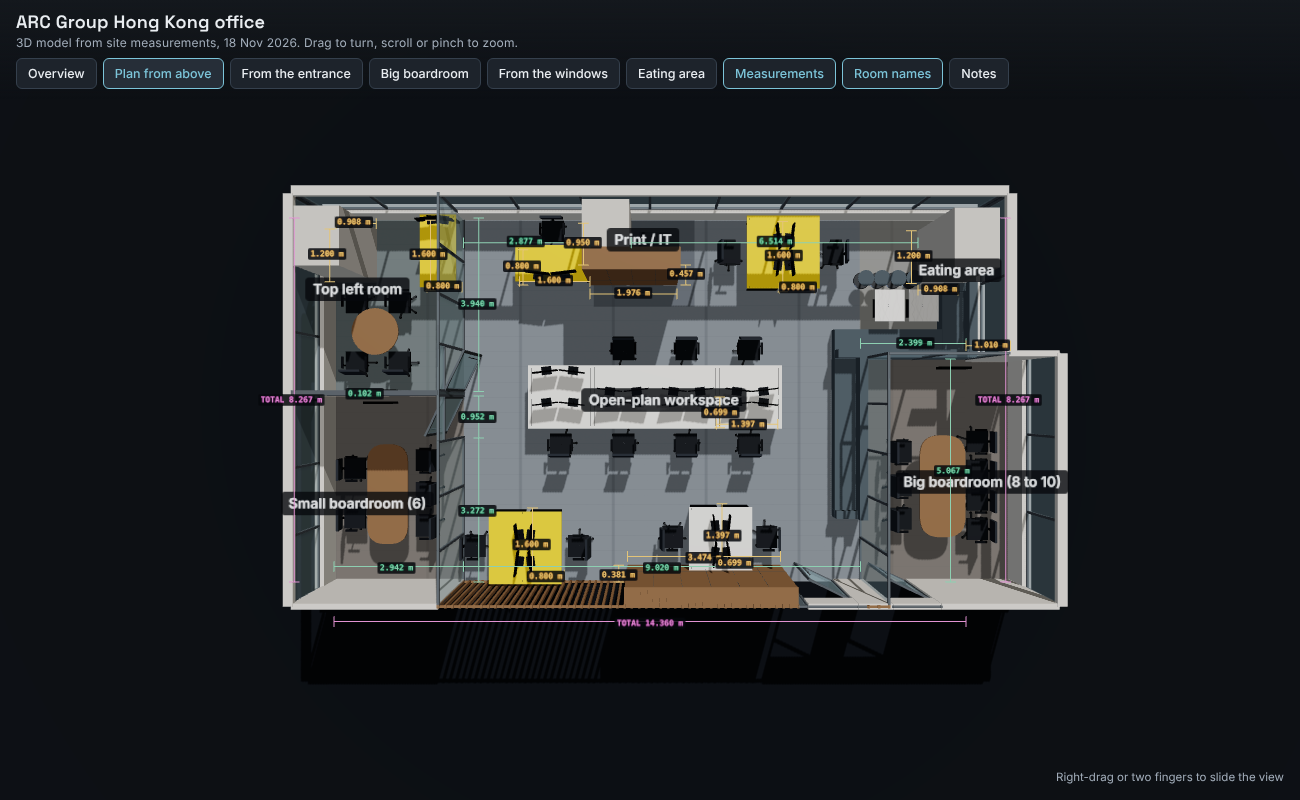
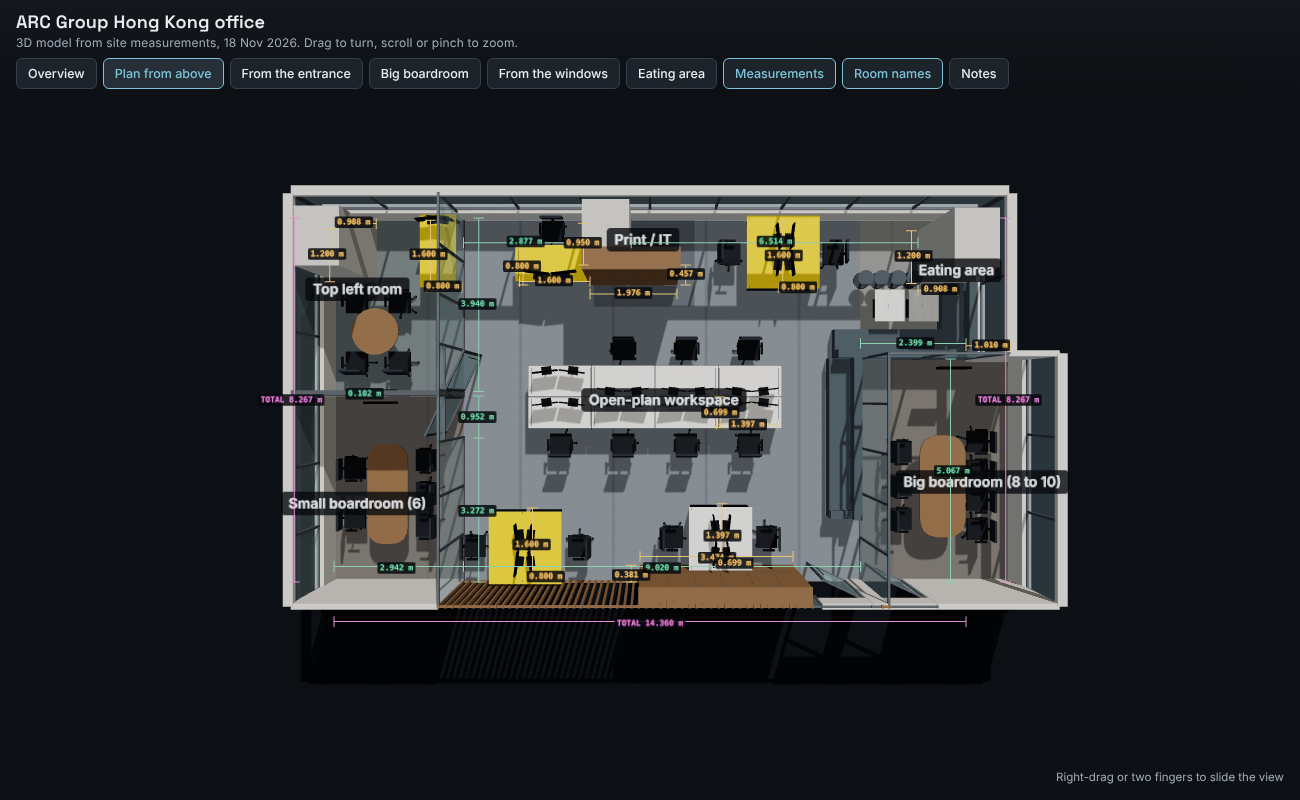
Front run in order: boardroom wall, boardroom door, 5 in glass divider, panes, main door; seams on the 8 middle desks
Claude-Session: https://claude.ai/code/session_01J9k4PRu2SvmMESSvYWztSA

diff --git a/model3d/arc-office-3d.html b/model3d/arc-office-3d.html
@@ -73,7 +73,7 @@ button:focus-visible{outline:2px solid var(--accent);outline-offset:2px}
 import * as THREE from 'three';
 import { OrbitControls } from 'three/addons/controls/OrbitControls.js';
 
-const DATA = {"sidePanes": [{"a": 2.8116, "b": 3.0148}, {"a": 4.013, "b": 4.2162}], "objdims": [{"x1": 4.216, "y1": 0.581, "x2": 7.69, "y2": 0.581, "t": "3.474 m"}, {"x1": 7.89, "y1": 0, "x2": 7.89, "y2": 0.381, "t": "0.381 m"}, {"x1": 6.567, "y1": 6.545, "x2": 8.543, "y2": 6.545, "t": "1.976 m"}, {"x1": 6.367, "y1": 6.745, "x2": 6.367, "y2": 7.203, "t": "0.457 m"}, {"x1": 0.182, "y1": 6.631, "x2": 1.09, "y2": 6.631, "t": "0.908 m"}, {"x1": 1.24, "y1": 6.781, "x2": 1.24, "y2": 7.981, "t": "1.200 m"}, {"x1": 8.693, "y1": 7.203, "x2": 8.693, "y2": 8.153, "t": "0.950 m"}, {"x1": 13.398, "y1": 8.142, "x2": 14.306, "y2": 8.142, "t": "0.908 m"}, {"x1": 14.456, "y1": 6.822, "x2": 14.456, "y2": 8.022, "t": "1.200 m"}, {"x1": -1.01, "y1": 5.367, "x2": 0, "y2": 5.367, "t": "1.010 m"}, {"x1": 4.276, "y1": 3.584, "x2": 5.673, "y2": 3.584, "t": "1.397 m"}, {"x1": 5.593, "y1": 3.504, "x2": 5.593, "y2": 4.202, "t": "0.699 m"}, {"x1": 4.927, "y1": 0.46, "x2": 5.625, "y2": 0.46, "t": "0.699 m"}, {"x1": 5.545, "y1": 0.38, "x2": 5.545, "y2": 1.777, "t": "1.397 m"}, {"x1": 9.126, "y1": 0.158, "x2": 9.926, "y2": 0.158, "t": "0.800 m"}, {"x1": 9.846, "y1": 0.078, "x2": 9.846, "y2": 1.678, "t": "1.600 m"}, {"x1": 3.445, "y1": 6.672, "x2": 4.245, "y2": 6.672, "t": "0.800 m"}, {"x1": 4.165, "y1": 6.592, "x2": 4.165, "y2": 8.192, "t": "1.600 m"}, {"x1": 8.543, "y1": 6.826, "x2": 10.143, "y2": 6.826, "t": "1.600 m"}, {"x1": 10.063, "y1": 6.746, "x2": 10.063, "y2": 7.546, "t": "0.800 m"}, {"x1": 11.449, "y1": 6.697, "x2": 12.249, "y2": 6.697, "t": "0.800 m"}, {"x1": 12.169, "y1": 6.617, "x2": 12.169, "y2": 8.217, "t": "1.600 m"}], "cab2": {"x": 6.5666, "y": 6.7455, "width": 1.9764, "depth": 0.4572}, "bump": {"x": -1.01, "y": 0, "w": 1.01, "d": 5.067}, "sofa": {"depth": 0.65, "a": {"x": 0, "y": 5.067, "len": 1.664}, "b": {"x": 0, "y": 5.067, "len": 3.049}, "c": {"x": 2.399, "y": 1.497, "len": 3.57}}, "width": 14.36, "depth": 8.267, "divider": 0.103, "walls": [{"id": "w6", "type": "wall", "x1": -1.01, "y1": 0, "x2": 1.3538, "y2": 0}, {"id": "g2", "type": "glass", "x1": 2.399, "y1": 0, "x2": 11.419, "y2": 0}, {"id": "w7", "type": "wall", "x1": 11.419, "y1": 0, "x2": 14.36, "y2": 0}, {"id": "n1", "type": "window", "x1": 0, "y1": 8.267, "x2": 14.36, "y2": 8.267}, {"id": "n2", "type": "window", "x1": 0, "y1": 5.067, "x2": 0, "y2": 8.267}, {"id": "n3", "type": "window", "x1": 14.36, "y1": 0, "x2": 14.36, "y2": 8.267}, {"id": "g3", "type": "glass", "x1": 2.399, "y1": 0, "x2": 2.399, "y2": 5.067}, {"id": "g4", "type": "glass", "x1": 0, "y1": 5.067, "x2": 2.399, "y2": 5.067}, {"id": "g5", "type": "glass", "x1": 11.419, "y1": 0, "x2": 11.419, "y2": 3.272}, {"id": "g7", "type": "glass", "x1": 11.419, "y1": 4.327, "x2": 11.419, "y2": 8.267}, {"id": "w9", "type": "wall", "x1": 11.419, "y1": 4.224, "x2": 14.36, "y2": 4.224}, {"id": "n2b", "type": "window", "x1": -1.01, "y1": 0, "x2": -1.01, "y2": 5.067}, {"id": "w6b", "type": "wall", "x1": -1.01, "y1": 5.067, "x2": 0, "y2": 5.067}], "doors": [{"id": "d1", "name": "Big boardroom door", "x1": 1.3538, "y1": 0, "x2": 2.319, "y2": 0, "hinge": {"x": 1.3538, "y": 0}}, {"id": "d2", "name": "Main entrance (card lock)", "x1": 3.0148, "y1": 0, "x2": 4.013, "y2": 0, "hinge": {"x": 3.0148, "y": 0}}, {"id": "d3", "name": "Small boardroom door", "x1": 11.419, "y1": 3.2906, "x2": 11.419, "y2": 4.224, "hinge": {"x": 11.419, "y": 4.224}}, {"id": "d4", "name": "Top left room door (locked)", "x1": 11.419, "y1": 4.327, "x2": 11.419, "y2": 5.2617, "hinge": {"x": 11.419, "y": 4.327}}], "rooms": [{"id": "bigBoard", "name": "Big boardroom (8 to 10)", "x": -1.01, "y": 0, "width": 3.409, "depth": 5.067}, {"id": "eating", "name": "Eating area", "x": 0, "y": 5.067, "width": 2.399, "depth": 3.2}, {"id": "openPlan", "name": "Open-plan workspace", "x": 2.399, "y": 0, "width": 9.02, "depth": 8.267}, {"id": "printIT", "name": "Print / IT", "x": 6.168, "y": 6.259, "width": 2.294, "depth": 2.008}, {"id": "smallBoard", "name": "Small boardroom (6)", "x": 11.419, "y": 0, "width": 2.942, "depth": 4.224}, {"id": "securities", "name": "Top left room", "x": 11.419, "y": 4.327, "width": 2.942, "depth": 3.94}], "pillars": [{"id": "p1", "shape": "rect", "x": 0.182, "y": 6.7808, "width": 0.908, "depth": 1.2002}, {"id": "p2", "shape": "square", "x": 7.593, "y": 7.2027, "width": 0.95, "depth": 0.95}, {"id": "p3", "shape": "rect", "x": 13.398, "y": 6.8218, "width": 0.908, "depth": 1.2002}], "cabinet": {"x": 4.2162, "y": 0, "width": 3.4737, "depth": 0.381}, "furniture": [{"id": "t1", "name": "Boardroom table", "room": "bigBoard", "kind": "rrect", "cx": 0.737, "cy": 2.234, "w": 1.0, "d": 2.243, "scale": [0.793, 0.923]}, {"id": "tv1", "name": "TV screen", "room": "bigBoard", "kind": "tvh", "cx": 0.666, "cy": 4.851, "w": 0.639, "d": 0.0, "scale": [0.793, 0.923]}, {"id": "et1", "name": "Eating table 1", "room": "eating", "kind": "marble", "cx": 1.15, "cy": 6.217, "w": 0.65, "d": 0.7, "scale": [0.793, 1.481]}, {"id": "et2", "name": "Eating table 2", "room": "eating", "kind": "marble", "cx": 1.9, "cy": 6.217, "w": 0.65, "d": 0.7, "scale": [0.793, 1.481]}, {"id": "dS", "name": "Desk, Suzuki", "room": "openPlan", "kind": "rect", "cx": 5.276, "cy": 1.079, "w": 0.6985, "d": 1.397, "scale": [0.892, 1.081]}, {"id": "dT", "name": "Desk, Tony", "room": "openPlan", "kind": "rect", "cx": 5.974, "cy": 1.079, "w": 0.6985, "d": 1.397, "scale": [0.892, 1.081]}, {"id": "dC", "name": "Desk, Char", "room": "openPlan", "kind": "rect", "cx": 9.526, "cy": 0.878, "w": 0.8001, "d": 1.6002, "scale": [0.892, 1.081], "top": "yellow"}, {"id": "dF", "name": "Desk, Felix", "room": "openPlan", "kind": "rect", "cx": 10.326, "cy": 0.878, "w": 0.8001, "d": 1.6002, "scale": [0.892, 1.081], "top": "yellow"}, {"id": "c1", "name": "Desk, spare (cluster)", "room": "openPlan", "kind": "rect", "cx": 4.974, "cy": 3.853, "w": 1.397, "d": 0.6985, "scale": [0.892, 1.081]}, {"id": "c2", "name": "Desk, Ale", "room": "openPlan", "kind": "rect", "cx": 6.371, "cy": 3.853, "w": 1.397, "d": 0.6985, "scale": [0.892, 1.081]}, {"id": "c3", "name": "Desk, Victor", "room": "openPlan", "kind": "rect", "cx": 7.768, "cy": 3.853, "w": 1.397, "d": 0.6985, "scale": [0.892, 1.081]}, {"id": "c4", "name": "Desk, Henry", "room": "openPlan", "kind": "rect", "cx": 9.165, "cy": 3.853, "w": 1.397, "d": 0.6985, "scale": [0.892, 1.081]}, {"id": "c5", "name": "Desk, Jeff", "room": "openPlan", "kind": "rect", "cx": 4.974, "cy": 4.551, "w": 1.397, "d": 0.6985, "scale": [0.892, 1.081]}, {"id": "c6", "name": "Desk, David", "room": "openPlan", "kind": "rect", "cx": 6.371, "cy": 4.551, "w": 1.397, "d": 0.6985, "scale": [0.892, 1.081]}, {"id": "c7", "name": "Desk, spare (cluster)", "room": "openPlan", "kind": "rect", "cx": 7.768, "cy": 4.551, "w": 1.397, "d": 0.6985, "scale": [0.892, 1.081]}, {"id": "c8", "name": "Desk, spare (cluster)", "room": "openPlan", "kind": "rect", "cx": 9.165, "cy": 4.551, "w": 1.397, "d": 0.6985, "scale": [0.892, 1.081]}, {"id": "dTh", "name": "Desk, Thib", "room": "openPlan", "kind": "rect", "cx": 3.845, "cy": 7.392, "w": 0.8001, "d": 1.6002, "scale": [0.892, 1.081], "top": "yellow"}, {"id": "dA", "name": "Desk, Alan", "room": "openPlan", "kind": "rect", "cx": 4.645, "cy": 7.392, "w": 0.8001, "d": 1.6002, "scale": [0.892, 1.081], "top": "yellow"}, {"id": "dG", "name": "Desk, Gordon", "room": "openPlan", "kind": "rect", "cx": 9.343, "cy": 7.146, "w": 1.6002, "d": 0.8001, "scale": [0.892, 1.081], "top": "yellow"}, {"id": "sv", "name": "Printer", "room": "printIT", "kind": "rect", "cx": 7.08, "cy": 7.514, "w": 0.67, "d": 0.562, "scale": [0.93, 1.116]}, {"id": "t2", "name": "Meeting table", "room": "smallBoard", "kind": "rrect", "cx": 12.957, "cy": 2.061, "w": 0.891, "d": 2.196, "scale": [0.934, 0.939]}, {"id": "tv3", "name": "TV screen", "room": "smallBoard", "kind": "tvh", "cx": 12.949, "cy": 4.106, "w": 0.639, "d": 0.0, "scale": [0.934, 0.939]}, {"id": "t3", "name": "Round table", "room": "securities", "kind": "round", "cx": 13.235, "cy": 5.642, "w": 1.028, "d": 1.028, "scale": [0.934, 1.292]}, {"id": "dN", "name": "Desk, Nigel", "room": "securities", "kind": "rect", "cx": 11.849, "cy": 7.417, "w": 0.8001, "d": 1.6002, "scale": [0.934, 1.292], "top": "yellow"}, {"id": "tv4", "name": "TV screen", "room": "securities", "kind": "tvh", "cx": 12.949, "cy": 4.361, "w": 0.639, "d": 0.0, "scale": [0.934, 1.292]}], "chairs": [{"room": "bigBoard", "cx": -0.113, "cy": 1.259}, {"room": "bigBoard", "cx": 1.587, "cy": 1.486}, {"room": "bigBoard", "cx": -0.113, "cy": 1.909}, {"room": "bigBoard", "cx": 1.587, "cy": 2.234}, {"room": "bigBoard", "cx": -0.113, "cy": 2.559}, {"room": "bigBoard", "cx": 1.587, "cy": 2.982}, {"room": "bigBoard", "cx": -0.113, "cy": 3.209}, {"room": "openPlan", "cx": 4.577, "cy": 1.079}, {"room": "openPlan", "cx": 6.673, "cy": 1.079}, {"room": "openPlan", "cx": 8.776, "cy": 0.878}, {"room": "openPlan", "cx": 11.076, "cy": 0.878}, {"room": "openPlan", "cx": 4.974, "cy": 3.154}, {"room": "openPlan", "cx": 6.371, "cy": 3.154}, {"room": "openPlan", "cx": 7.768, "cy": 3.154}, {"room": "openPlan", "cx": 9.165, "cy": 3.154}, {"room": "openPlan", "cx": 4.974, "cy": 5.25}, {"room": "openPlan", "cx": 6.371, "cy": 5.25}, {"room": "openPlan", "cx": 7.768, "cy": 5.25}, {"room": "openPlan", "cx": 9.343, "cy": 7.896}, {"room": "openPlan", "cx": 3.095, "cy": 7.392}, {"room": "openPlan", "cx": 5.395, "cy": 7.392}, {"room": "smallBoard", "cx": 12.162, "cy": 1.329}, {"room": "smallBoard", "cx": 13.753, "cy": 1.512}, {"room": "smallBoard", "cx": 12.162, "cy": 2.061}, {"room": "smallBoard", "cx": 13.753, "cy": 2.61}, {"room": "smallBoard", "cx": 12.162, "cy": 2.793}, {"room": "securities", "cx": 13.712, "cy": 6.302}, {"room": "securities", "cx": 12.758, "cy": 6.301}, {"room": "securities", "cx": 12.758, "cy": 4.982}, {"room": "securities", "cx": 13.711, "cy": 4.982}, {"room": "eating", "cx": 1.29, "cy": 6.847, "stool": true}, {"room": "eating", "cx": 1.65, "cy": 6.847, "stool": true}, {"room": "eating", "cx": 2.01, "cy": 6.847, "stool": true}, {"room": "eating", "cx": 2.37, "cy": 6.847, "stool": true}], "sites": [{"key": "x:P2R:XSM", "x1": 8.542163329449382, "y1": 7.7046833453950825, "x2": 11.418713864976118, "y2": 7.7046833453950825, "v": 2.876550535526736, "raw": "18.5 inches + 2S + 47 inches"}, {"key": "x:P1R:P2L", "x1": 1.0901254378557255, "y1": 7.7046833453950825, "x2": 7.603638470915489, "y2": 7.7046833453950825, "v": 6.513513033059764, "raw": "17 inches + 2/16ths + SSLSSLS(L-S)"}, {"key": "x:XBB:XSM", "x1": 2.3987128644778917, "y1": 2.4231153774765674e-21, "x2": 11.418713864976118, "y2": 2.4231153774765674e-21, "v": 9.020001000498226, "raw": "0 + (4L + 6S) + 51.1cm"}, {"key": "x:XSM:X9", "x1": 11.418713864976118, "y1": 2.4231153774765674e-21, "x2": 14.360351908010173, "y2": 2.4231153774765674e-21, "v": 2.941638043034056, "raw": "116 inches \u2013 (3/16ths)"}, {"key": "y:YF:YBB", "x1": 6.695989857701384e-22, "y1": 2.4231153774765674e-21, "x2": 6.695989857701384e-22, "y2": 5.067303132830023, "v": 5.067303132830023, "raw": "41 inches + 12/16th to the first pane + 4 panes of 39 inches 7/16ths each"}, {"key": "x:X0:XBB", "x1": 6.695989857701384e-22, "y1": 5.067303132830023, "x2": 2.3987128644778917, "y2": 5.067303132830023, "v": 2.3987128644778917, "raw": "94 inches 7/16ths"}, {"key": "y:YF:YD1", "x1": 11.418713864976118, "y1": 2.4231153774765674e-21, "x2": 11.418713864976118, "y2": 3.271835413790918, "v": 3.271835413790918, "raw": "21+2/16ths + 2S + L + 1 foot"}, {"key": "y:YSB2:Y9", "x1": 11.418713864976118, "y1": 4.326728484890568, "x2": 11.418713864976118, "y2": 8.26690081563199, "v": 3.940172330741423, "raw": "17 inches + 3/16ths + 4S + 1L \u2013 5.5 inches"}, {"key": "y:YSB:YSB2", "x1": 14.711994738728134, "y1": 4.2243348064520285, "x2": 14.711994738728134, "y2": 4.326728484890568, "v": 0.1023936784385387, "raw": "4 inches 1/32ths"}, {"key": "y:YD1:YSB", "x1": 11.418713864976118, "y1": 3.271835413790918, "x2": 11.418713864976118, "y2": 4.2243348064520285, "v": 0.9524993926611109, "raw": "37.5 inches"}]};
+const DATA = {"sidePanes": [{"a": 2.526, "b": 2.7292}, {"a": 3.7274, "b": 3.9306}], "objdims": [{"x1": 3.931, "y1": 0.581, "x2": 7.404, "y2": 0.581, "t": "3.474 m"}, {"x1": 7.604, "y1": 0, "x2": 7.604, "y2": 0.381, "t": "0.381 m"}, {"x1": 6.567, "y1": 6.545, "x2": 8.543, "y2": 6.545, "t": "1.976 m"}, {"x1": 6.367, "y1": 6.745, "x2": 6.367, "y2": 7.203, "t": "0.457 m"}, {"x1": 0.182, "y1": 6.631, "x2": 1.09, "y2": 6.631, "t": "0.908 m"}, {"x1": 1.24, "y1": 6.781, "x2": 1.24, "y2": 7.981, "t": "1.200 m"}, {"x1": 8.693, "y1": 7.203, "x2": 8.693, "y2": 8.153, "t": "0.950 m"}, {"x1": 13.398, "y1": 8.142, "x2": 14.306, "y2": 8.142, "t": "0.908 m"}, {"x1": 14.456, "y1": 6.822, "x2": 14.456, "y2": 8.022, "t": "1.200 m"}, {"x1": -1.01, "y1": 5.367, "x2": 0, "y2": 5.367, "t": "1.010 m"}, {"x1": 4.276, "y1": 3.584, "x2": 5.673, "y2": 3.584, "t": "1.397 m"}, {"x1": 5.593, "y1": 3.504, "x2": 5.593, "y2": 4.202, "t": "0.699 m"}, {"x1": 4.927, "y1": 0.46, "x2": 5.625, "y2": 0.46, "t": "0.699 m"}, {"x1": 5.545, "y1": 0.38, "x2": 5.545, "y2": 1.777, "t": "1.397 m"}, {"x1": 9.126, "y1": 0.158, "x2": 9.926, "y2": 0.158, "t": "0.800 m"}, {"x1": 9.846, "y1": 0.078, "x2": 9.846, "y2": 1.678, "t": "1.600 m"}, {"x1": 3.445, "y1": 6.672, "x2": 4.245, "y2": 6.672, "t": "0.800 m"}, {"x1": 4.165, "y1": 6.592, "x2": 4.165, "y2": 8.192, "t": "1.600 m"}, {"x1": 8.543, "y1": 6.826, "x2": 10.143, "y2": 6.826, "t": "1.600 m"}, {"x1": 10.063, "y1": 6.746, "x2": 10.063, "y2": 7.546, "t": "0.800 m"}, {"x1": 11.449, "y1": 6.697, "x2": 12.249, "y2": 6.697, "t": "0.800 m"}, {"x1": 12.169, "y1": 6.617, "x2": 12.169, "y2": 8.217, "t": "1.600 m"}], "cab2": {"x": 6.5666, "y": 6.7455, "width": 1.9764, "depth": 0.4572}, "bump": {"x": -1.01, "y": 0, "w": 1.01, "d": 5.067}, "sofa": {"depth": 0.65, "a": {"x": 0, "y": 5.067, "len": 1.664}, "b": {"x": 0, "y": 5.067, "len": 3.049}, "c": {"x": 2.526, "y": 1.497, "len": 3.57}}, "width": 14.36, "depth": 8.267, "divider": 0.103, "walls": [{"id": "w6", "type": "wall", "x1": -1.01, "y1": 0, "x2": 1.4338, "y2": 0}, {"id": "g2", "type": "glass", "x1": 2.399, "y1": 0, "x2": 11.419, "y2": 0}, {"id": "w7", "type": "wall", "x1": 11.419, "y1": 0, "x2": 14.36, "y2": 0}, {"id": "n1", "type": "window", "x1": 0, "y1": 8.267, "x2": 14.36, "y2": 8.267}, {"id": "n2", "type": "window", "x1": 0, "y1": 5.067, "x2": 0, "y2": 8.267}, {"id": "n3", "type": "window", "x1": 14.36, "y1": 0, "x2": 14.36, "y2": 8.267}, {"id": "g3", "type": "glass", "x1": 2.399, "y1": 0, "x2": 2.399, "y2": 5.067}, {"id": "g4", "type": "glass", "x1": 0, "y1": 5.067, "x2": 2.399, "y2": 5.067}, {"id": "g5", "type": "glass", "x1": 11.419, "y1": 0, "x2": 11.419, "y2": 3.272}, {"id": "g7", "type": "glass", "x1": 11.419, "y1": 4.327, "x2": 11.419, "y2": 8.267}, {"id": "w9", "type": "wall", "x1": 11.419, "y1": 4.224, "x2": 14.36, "y2": 4.224}, {"id": "n2b", "type": "window", "x1": -1.01, "y1": 0, "x2": -1.01, "y2": 5.067}, {"id": "w6b", "type": "wall", "x1": -1.01, "y1": 5.067, "x2": 0, "y2": 5.067}], "doors": [{"id": "d1", "name": "Big boardroom door", "x1": 1.4338, "y1": 0, "x2": 2.399, "y2": 0, "hinge": {"x": 1.4338, "y": 0}}, {"id": "d2", "name": "Main entrance (card lock)", "x1": 2.7292, "y1": 0, "x2": 3.7274, "y2": 0, "hinge": {"x": 2.7292, "y": 0}}, {"id": "d3", "name": "Small boardroom door", "x1": 11.419, "y1": 3.2906, "x2": 11.419, "y2": 4.224, "hinge": {"x": 11.419, "y": 4.224}}, {"id": "d4", "name": "Top left room door (locked)", "x1": 11.419, "y1": 4.327, "x2": 11.419, "y2": 5.2617, "hinge": {"x": 11.419, "y": 4.327}}], "rooms": [{"id": "bigBoard", "name": "Big boardroom (8 to 10)", "x": -1.01, "y": 0, "width": 3.409, "depth": 5.067}, {"id": "eating", "name": "Eating area", "x": 0, "y": 5.067, "width": 2.399, "depth": 3.2}, {"id": "openPlan", "name": "Open-plan workspace", "x": 2.399, "y": 0, "width": 9.02, "depth": 8.267}, {"id": "printIT", "name": "Print / IT", "x": 6.168, "y": 6.259, "width": 2.294, "depth": 2.008}, {"id": "smallBoard", "name": "Small boardroom (6)", "x": 11.419, "y": 0, "width": 2.942, "depth": 4.224}, {"id": "securities", "name": "Top left room", "x": 11.419, "y": 4.327, "width": 2.942, "depth": 3.94}], "pillars": [{"id": "p1", "shape": "rect", "x": 0.182, "y": 6.7808, "width": 0.908, "depth": 1.2002}, {"id": "p2", "shape": "square", "x": 7.593, "y": 7.2027, "width": 0.95, "depth": 0.95}, {"id": "p3", "shape": "rect", "x": 13.398, "y": 6.8218, "width": 0.908, "depth": 1.2002}], "cabinet": {"x": 3.9306, "y": 0, "width": 3.4737, "depth": 0.381}, "furniture": [{"id": "t1", "name": "Boardroom table", "room": "bigBoard", "kind": "rrect", "cx": 0.737, "cy": 2.234, "w": 1.0, "d": 2.243, "scale": [0.793, 0.923]}, {"id": "tv1", "name": "TV screen", "room": "bigBoard", "kind": "tvh", "cx": 0.666, "cy": 4.851, "w": 0.639, "d": 0.0, "scale": [0.793, 0.923]}, {"id": "et1", "name": "Eating table 1", "room": "eating", "kind": "marble", "cx": 1.15, "cy": 6.217, "w": 0.65, "d": 0.7, "scale": [0.793, 1.481]}, {"id": "et2", "name": "Eating table 2", "room": "eating", "kind": "marble", "cx": 1.9, "cy": 6.217, "w": 0.65, "d": 0.7, "scale": [0.793, 1.481]}, {"id": "dS", "name": "Desk, Suzuki", "room": "openPlan", "kind": "rect", "cx": 5.276, "cy": 1.079, "w": 0.6985, "d": 1.397, "scale": [0.892, 1.081]}, {"id": "dT", "name": "Desk, Tony", "room": "openPlan", "kind": "rect", "cx": 5.974, "cy": 1.079, "w": 0.6985, "d": 1.397, "scale": [0.892, 1.081]}, {"id": "dC", "name": "Desk, Char", "room": "openPlan", "kind": "rect", "cx": 9.526, "cy": 0.878, "w": 0.8001, "d": 1.6002, "scale": [0.892, 1.081], "top": "yellow"}, {"id": "dF", "name": "Desk, Felix", "room": "openPlan", "kind": "rect", "cx": 10.326, "cy": 0.878, "w": 0.8001, "d": 1.6002, "scale": [0.892, 1.081], "top": "yellow"}, {"id": "c1", "name": "Desk, spare (cluster)", "room": "openPlan", "kind": "rect", "cx": 4.974, "cy": 3.853, "w": 1.397, "d": 0.6985, "scale": [0.892, 1.081]}, {"id": "c2", "name": "Desk, Ale", "room": "openPlan", "kind": "rect", "cx": 6.371, "cy": 3.853, "w": 1.397, "d": 0.6985, "scale": [0.892, 1.081]}, {"id": "c3", "name": "Desk, Victor", "room": "openPlan", "kind": "rect", "cx": 7.768, "cy": 3.853, "w": 1.397, "d": 0.6985, "scale": [0.892, 1.081]}, {"id": "c4", "name": "Desk, Henry", "room": "openPlan", "kind": "rect", "cx": 9.165, "cy": 3.853, "w": 1.397, "d": 0.6985, "scale": [0.892, 1.081]}, {"id": "c5", "name": "Desk, Jeff", "room": "openPlan", "kind": "rect", "cx": 4.974, "cy": 4.551, "w": 1.397, "d": 0.6985, "scale": [0.892, 1.081]}, {"id": "c6", "name": "Desk, David", "room": "openPlan", "kind": "rect", "cx": 6.371, "cy": 4.551, "w": 1.397, "d": 0.6985, "scale": [0.892, 1.081]}, {"id": "c7", "name": "Desk, spare (cluster)", "room": "openPlan", "kind": "rect", "cx": 7.768, "cy": 4.551, "w": 1.397, "d": 0.6985, "scale": [0.892, 1.081]}, {"id": "c8", "name": "Desk, spare (cluster)", "room": "openPlan", "kind": "rect", "cx": 9.165, "cy": 4.551, "w": 1.397, "d": 0.6985, "scale": [0.892, 1.081]}, {"id": "dTh", "name": "Desk, Thib", "room": "openPlan", "kind": "rect", "cx": 3.845, "cy": 7.392, "w": 0.8001, "d": 1.6002, "scale": [0.892, 1.081], "top": "yellow"}, {"id": "dA", "name": "Desk, Alan", "room": "openPlan", "kind": "rect", "cx": 4.645, "cy": 7.392, "w": 0.8001, "d": 1.6002, "scale": [0.892, 1.081], "top": "yellow"}, {"id": "dG", "name": "Desk, Gordon", "room": "openPlan", "kind": "rect", "cx": 9.343, "cy": 7.146, "w": 1.6002, "d": 0.8001, "scale": [0.892, 1.081], "top": "yellow"}, {"id": "sv", "name": "Printer", "room": "printIT", "kind": "rect", "cx": 7.08, "cy": 7.514, "w": 0.67, "d": 0.562, "scale": [0.93, 1.116]}, {"id": "t2", "name": "Meeting table", "room": "smallBoard", "kind": "rrect", "cx": 12.957, "cy": 2.061, "w": 0.891, "d": 2.196, "scale": [0.934, 0.939]}, {"id": "tv3", "name": "TV screen", "room": "smallBoard", "kind": "tvh", "cx": 12.949, "cy": 4.106, "w": 0.639, "d": 0.0, "scale": [0.934, 0.939]}, {"id": "t3", "name": "Round table", "room": "securities", "kind": "round", "cx": 13.235, "cy": 5.642, "w": 1.028, "d": 1.028, "scale": [0.934, 1.292]}, {"id": "dN", "name": "Desk, Nigel", "room": "securities", "kind": "rect", "cx": 11.849, "cy": 7.417, "w": 0.8001, "d": 1.6002, "scale": [0.934, 1.292], "top": "yellow"}, {"id": "tv4", "name": "TV screen", "room": "securities", "kind": "tvh", "cx": 12.949, "cy": 4.361, "w": 0.639, "d": 0.0, "scale": [0.934, 1.292]}], "chairs": [{"room": "bigBoard", "cx": -0.113, "cy": 1.259}, {"room": "bigBoard", "cx": 1.587, "cy": 1.486}, {"room": "bigBoard", "cx": -0.113, "cy": 1.909}, {"room": "bigBoard", "cx": 1.587, "cy": 2.234}, {"room": "bigBoard", "cx": -0.113, "cy": 2.559}, {"room": "bigBoard", "cx": 1.587, "cy": 2.982}, {"room": "bigBoard", "cx": -0.113, "cy": 3.209}, {"room": "openPlan", "cx": 4.577, "cy": 1.079}, {"room": "openPlan", "cx": 6.673, "cy": 1.079}, {"room": "openPlan", "cx": 8.776, "cy": 0.878}, {"room": "openPlan", "cx": 11.076, "cy": 0.878}, {"room": "openPlan", "cx": 4.974, "cy": 3.154}, {"room": "openPlan", "cx": 6.371, "cy": 3.154}, {"room": "openPlan", "cx": 7.768, "cy": 3.154}, {"room": "openPlan", "cx": 9.165, "cy": 3.154}, {"room": "openPlan", "cx": 4.974, "cy": 5.25}, {"room": "openPlan", "cx": 6.371, "cy": 5.25}, {"room": "openPlan", "cx": 7.768, "cy": 5.25}, {"room": "openPlan", "cx": 9.343, "cy": 7.896}, {"room": "openPlan", "cx": 3.095, "cy": 7.392}, {"room": "openPlan", "cx": 5.395, "cy": 7.392}, {"room": "smallBoard", "cx": 12.162, "cy": 1.329}, {"room": "smallBoard", "cx": 13.753, "cy": 1.512}, {"room": "smallBoard", "cx": 12.162, "cy": 2.061}, {"room": "smallBoard", "cx": 13.753, "cy": 2.61}, {"room": "smallBoard", "cx": 12.162, "cy": 2.793}, {"room": "securities", "cx": 13.712, "cy": 6.302}, {"room": "securities", "cx": 12.758, "cy": 6.301}, {"room": "securities", "cx": 12.758, "cy": 4.982}, {"room": "securities", "cx": 13.711, "cy": 4.982}, {"room": "eating", "cx": 1.29, "cy": 6.847, "stool": true}, {"room": "eating", "cx": 1.65, "cy": 6.847, "stool": true}, {"room": "eating", "cx": 2.01, "cy": 6.847, "stool": true}, {"room": "eating", "cx": 2.37, "cy": 6.847, "stool": true}], "sites": [{"key": "x:P2R:XSM", "x1": 8.542163329449382, "y1": 7.7046833453950825, "x2": 11.418713864976118, "y2": 7.7046833453950825, "v": 2.876550535526736, "raw": "18.5 inches + 2S + 47 inches"}, {"key": "x:P1R:P2L", "x1": 1.0901254378557255, "y1": 7.7046833453950825, "x2": 7.603638470915489, "y2": 7.7046833453950825, "v": 6.513513033059764, "raw": "17 inches + 2/16ths + SSLSSLS(L-S)"}, {"key": "x:XBB:XSM", "x1": 2.3987128644778917, "y1": 2.4231153774765674e-21, "x2": 11.418713864976118, "y2": 2.4231153774765674e-21, "v": 9.020001000498226, "raw": "0 + (4L + 6S) + 51.1cm"}, {"key": "x:XSM:X9", "x1": 11.418713864976118, "y1": 2.4231153774765674e-21, "x2": 14.360351908010173, "y2": 2.4231153774765674e-21, "v": 2.941638043034056, "raw": "116 inches \u2013 (3/16ths)"}, {"key": "y:YF:YBB", "x1": 6.695989857701384e-22, "y1": 2.4231153774765674e-21, "x2": 6.695989857701384e-22, "y2": 5.067303132830023, "v": 5.067303132830023, "raw": "41 inches + 12/16th to the first pane + 4 panes of 39 inches 7/16ths each"}, {"key": "x:X0:XBB", "x1": 6.695989857701384e-22, "y1": 5.067303132830023, "x2": 2.3987128644778917, "y2": 5.067303132830023, "v": 2.3987128644778917, "raw": "94 inches 7/16ths"}, {"key": "y:YF:YD1", "x1": 11.418713864976118, "y1": 2.4231153774765674e-21, "x2": 11.418713864976118, "y2": 3.271835413790918, "v": 3.271835413790918, "raw": "21+2/16ths + 2S + L + 1 foot"}, {"key": "y:YSB2:Y9", "x1": 11.418713864976118, "y1": 4.326728484890568, "x2": 11.418713864976118, "y2": 8.26690081563199, "v": 3.940172330741423, "raw": "17 inches + 3/16ths + 4S + 1L \u2013 5.5 inches"}, {"key": "y:YSB:YSB2", "x1": 14.711994738728134, "y1": 4.2243348064520285, "x2": 14.711994738728134, "y2": 4.326728484890568, "v": 0.1023936784385387, "raw": "4 inches 1/32ths"}, {"key": "y:YD1:YSB", "x1": 11.418713864976118, "y1": 3.271835413790918, "x2": 11.418713864976118, "y2": 4.2243348064520285, "v": 0.9524993926611109, "raw": "37.5 inches"}]};
 const H = {ceil:2.7, door:2.1, sill:0.85, winTop:2.55, cab:2.7, desk:0.749};
 const TILE = {L:1.2176, S:0.6064};
 // plan (x,y) in metres -> scene: X = -x, Z = -y, so the view matches the measuring page (windows at the back, big boardroom on the right)
@@ -161,6 +161,7 @@ DATA.walls.forEach(w=>run(w.x1,w.y1,w.x2,w.y2,r=>{
     if (w.type==='wall') slab(p,0.12,0,H.ceil,M.wall);
     else if (w.type==='window' && w.thick){ /* measured glass pane thickness, drawn outside the room line */ const T=w.thick; const q={...p,at:p.at+(p.at>1?T/2:-T/2)}; slab(q,T,0,H.sill,M.wall); slab(q,T,H.sill,H.winTop,M.glass,false); slab({...q},T,H.sill,H.sill+0.05,M.frame); slab(q,T,H.winTop-0.05,H.winTop,M.frame); const n=Math.max(1,Math.round(q.len/1.5)); for(let i=0;i<=n;i++){ const c=q.a+q.len*i/n; slab({...q,a:c-0.025,b:c+0.025,len:0.05,mid:c},T,H.sill,H.winTop,M.frame); } slab(q,T,H.winTop,H.ceil,M.wall); }
     else if (w.type==='window'){ const q={...p,at:p.at+(p.hz?(p.at>1?0.06:-0.06):(p.at>1?0.06:-0.06))}; slab(q,0.2,0,H.sill,M.wall); glassRun(q,H.sill,H.winTop,1.5); slab(q,0.2,H.winTop,H.ceil,M.wall); }
+    else if (w.thick){ const T=w.thick; const q={...p,at:p.at+T/2}; slab(q,0.012,0,H.ceil,M.glass,false); slab(q,T,0,0.05,M.frame); slab(q,T,H.ceil-0.05,H.ceil,M.frame); const n=Math.max(1,Math.round(q.len/1.0)); for(let i=0;i<=n;i++){ const c=q.a+q.len*i/n; slab({...q,a:c-0.025,b:c+0.025,len:0.05,mid:c},T,0,H.ceil,M.frame); } }
     else glassRun(p,0,H.ceil,1.0);
   });
   // over each door opening: glass above door height in glass walls, wall above in solid ones
@@ -206,7 +207,8 @@ DATA.furniture.forEach(f=>{ const X=-f.cx, Z=-f.cy;
     const top=new THREE.Mesh(g,M.wood); top.position.set(X,H.desk-0.04,Z); top.castShadow=top.receiveShadow=true; scene.add(top);
     [-1,1].forEach(s=>{ box(0.1,H.desk-0.04,0.5,M.leg,X,(H.desk-0.04)/2,Z+s*f.d*0.28); }); return; }
   // desks and plain tables: top plus two panel legs on the short sides
-  const top=f.room==='eating'?M.wood:(f.top==='yellow'?M.deskYellow:M.deskTop); box(f.w,0.03,f.d,top,X,H.desk-0.015,Z);
+  const top=f.room==='eating'?M.wood:(f.top==='yellow'?M.deskYellow:M.deskTop); const gap=/^c\d$/.test(f.id)?0.014:0; box(f.w-gap,0.03,f.d-gap,top,X,H.desk-0.015,Z);
+  if(gap){ /* dark seams so the 2 x 4 cluster reads as 8 separate desks */ [[f.w,0.006,0,f.d/2],[f.w,0.006,0,-f.d/2],[0.006,f.d,f.w/2,0],[0.006,f.d,-f.w/2,0]].forEach(([w,d,dx,dz])=>box(w,0.031,d,M.dark,X+dx,H.desk-0.015,Z+dz,false)); }
   const long=f.w>=f.d; [-1,1].forEach(s=>{ if(long) box(0.04,H.desk-0.03,f.d*0.85,M.leg,X+s*(f.w/2-0.05),(H.desk-0.03)/2,Z); else box(f.w*0.85,H.desk-0.03,0.04,M.leg,X,(H.desk-0.03)/2,Z+s*(f.d/2-0.05)); });
   if (f.room==='openPlan'||f.room==='securities') desks.push(f);
 });

diff --git a/model3d/template.html b/model3d/template.html
@@ -161,6 +161,7 @@ DATA.walls.forEach(w=>run(w.x1,w.y1,w.x2,w.y2,r=>{
     if (w.type==='wall') slab(p,0.12,0,H.ceil,M.wall);
     else if (w.type==='window' && w.thick){ /* measured glass pane thickness, drawn outside the room line */ const T=w.thick; const q={...p,at:p.at+(p.at>1?T/2:-T/2)}; slab(q,T,0,H.sill,M.wall); slab(q,T,H.sill,H.winTop,M.glass,false); slab({...q},T,H.sill,H.sill+0.05,M.frame); slab(q,T,H.winTop-0.05,H.winTop,M.frame); const n=Math.max(1,Math.round(q.len/1.5)); for(let i=0;i<=n;i++){ const c=q.a+q.len*i/n; slab({...q,a:c-0.025,b:c+0.025,len:0.05,mid:c},T,H.sill,H.winTop,M.frame); } slab(q,T,H.winTop,H.ceil,M.wall); }
     else if (w.type==='window'){ const q={...p,at:p.at+(p.hz?(p.at>1?0.06:-0.06):(p.at>1?0.06:-0.06))}; slab(q,0.2,0,H.sill,M.wall); glassRun(q,H.sill,H.winTop,1.5); slab(q,0.2,H.winTop,H.ceil,M.wall); }
+    else if (w.thick){ const T=w.thick; const q={...p,at:p.at+T/2}; slab(q,0.012,0,H.ceil,M.glass,false); slab(q,T,0,0.05,M.frame); slab(q,T,H.ceil-0.05,H.ceil,M.frame); const n=Math.max(1,Math.round(q.len/1.0)); for(let i=0;i<=n;i++){ const c=q.a+q.len*i/n; slab({...q,a:c-0.025,b:c+0.025,len:0.05,mid:c},T,0,H.ceil,M.frame); } }
     else glassRun(p,0,H.ceil,1.0);
   });
   // over each door opening: glass above door height in glass walls, wall above in solid ones
@@ -206,7 +207,8 @@ DATA.furniture.forEach(f=>{ const X=-f.cx, Z=-f.cy;
     const top=new THREE.Mesh(g,M.wood); top.position.set(X,H.desk-0.04,Z); top.castShadow=top.receiveShadow=true; scene.add(top);
     [-1,1].forEach(s=>{ box(0.1,H.desk-0.04,0.5,M.leg,X,(H.desk-0.04)/2,Z+s*f.d*0.28); }); return; }
   // desks and plain tables: top plus two panel legs on the short sides
-  const top=f.room==='eating'?M.wood:(f.top==='yellow'?M.deskYellow:M.deskTop); box(f.w,0.03,f.d,top,X,H.desk-0.015,Z);
+  const top=f.room==='eating'?M.wood:(f.top==='yellow'?M.deskYellow:M.deskTop); const gap=/^c\d$/.test(f.id)?0.014:0; box(f.w-gap,0.03,f.d-gap,top,X,H.desk-0.015,Z);
+  if(gap){ /* dark seams so the 2 x 4 cluster reads as 8 separate desks */ [[f.w,0.006,0,f.d/2],[f.w,0.006,0,-f.d/2],[0.006,f.d,f.w/2,0],[0.006,f.d,-f.w/2,0]].forEach(([w,d,dx,dz])=>box(w,0.031,d,M.dark,X+dx,H.desk-0.015,Z+dz,false)); }
   const long=f.w>=f.d; [-1,1].forEach(s=>{ if(long) box(0.04,H.desk-0.03,f.d*0.85,M.leg,X+s*(f.w/2-0.05),(H.desk-0.03)/2,Z); else box(f.w*0.85,H.desk-0.03,0.04,M.leg,X,(H.desk-0.03)/2,Z+s*(f.d/2-0.05)); });
   if (f.room==='openPlan'||f.room==='securities') desks.push(f);
 });

diff --git a/tools/build3d.py b/tools/build3d.py
@@ -4,17 +4,18 @@ doors=[]
 for d in s['doors']:
     d=dict(d)
     if d['id']=='d1':   # user 09:55: big boardroom door 38 in wide; edge by the boardroom glass corner kept
-        d['x2']=min(d['x2'],2.399-0.08); d['x1']=round(d['x2']-38*0.0254,4); d['hinge']={'x':d['x1'],'y':0}
+        d['x2']=2.399; d['x1']=round(d['x2']-38*0.0254,4); d['hinge']={'x':d['x1'],'y':0}   # right against the glass divider
     if d['id']=='d4':   # user 09:55: top left room door 36.8 in, hinge on the divider side
         d['y2']=round(d['y1']+36.8*0.0254,4)
     if d['id']=='d3':   # user 09:54: small boardroom door leaf 36.75 in, inside the 37.5 in opening; hinge on the divider side
         d['y1']=round(d['y2']-36.75*0.0254,4)
     if d['id']=='d2':   # user 09:52: main door 39.3 in wide; cupboard side frame kept where it is
-        w=round(39.3*0.0254,4); d['x1']=round(d['x2']-w,4); d['hinge']={'x':d['x1'],'y':0}; d['width']=w
+        # user 10:17: front from the boardroom: wall, boardroom door, 5 in glass divider, 8 in pane, main door, 8 in pane, then the wooden slats
+        w=round(39.3*0.0254,4); d['x1']=round(2.399+5*0.0254+8*0.0254,4); d['x2']=round(d['x1']+w,4); d['hinge']={'x':d['x1'],'y':0}
     doors.append({k:d[k] for k in ('id','name','x1','y1','x2','y2','hinge')})
 cab=[o for o in s['furniture'] if o['id']=='st'][0]
 xen=s['gridlines']['x']['XEN']; xsm=s['gridlines']['x']['XSM']; PANE=round(8*0.0254,4)   # user 09:55: tall 8 in glass pane on each side of the main door
-cab=dict(x=round(xen+PANE,4),y=0,width=round(3*0.6064+1.2176+(11.75+5.45)*0.0254,4),depth=round(15*0.0254,4))  # user 09:49: entrance cupboard SLSS + 11.75 in + 5.45 in long, 15 in thick; wooden slat wall runs the whole front
+cab=dict(x=round([d for d in doors if d['id']=='d2'][0]['x2']+PANE,4),y=0,width=round(3*0.6064+1.2176+(11.75+5.45)*0.0254,4),depth=round(15*0.0254,4))  # user 09:49: entrance cupboard SLSS + 11.75 in + 5.45 in long, 15 in thick; wooden slat wall runs the whole front
 furn=f['furniture']; chairs=f['chairs']
 for o in furn:
     if o['room']=='openPlan' and o['cy']-o['d']/2 < cab['depth']+0.9 and o['cx']+o['w']/2>cab['x'] and o['cx']-o['w']/2<cab['x']+cab['width']:
@@ -62,7 +63,7 @@ pil=[o for o in s['furniture'] if o['id']=='p1'][0]
 _back=pil['y']+pil['depth']; _r=pil['x']+pil['width']
 pil.update(shape='rect',width=round(35.75*0.0254,4),depth=round(47.25*0.0254,4)); pil.update(x=round(_r-pil['width'],4),y=round(_back-pil['depth'],4))
 xbb=ey['width']; d1=[d for d in doors if d['id']=='d2'][0]
-sofa=dict(depth=0.65,a=dict(x=0,y=ey['y'],len=round(pil['y']-0.05-ey['y'],3)),b=dict(x=0,y=ey['y'],len=round(xbb+0.65,3)),c=dict(x=xbb,y=round(abs(d1['x2']-d1['x1'])*1.5,3),len=round(ey['y']-abs(d1['x2']-d1['x1'])*1.5,3)))
+sofa=dict(depth=0.65,a=dict(x=0,y=ey['y'],len=round(pil['y']-0.05-ey['y'],3)),b=dict(x=0,y=ey['y'],len=round(xbb+0.65,3)),c=dict(x=round(xbb+5*0.0254,3),y=round(abs(d1['x2']-d1['x1'])*1.5,3),len=round(ey['y']-abs(d1['x2']-d1['x1'])*1.5,3)))
 ty=ey['y']+0.65+0.15+0.35
 for o in furn:
     if o['id'] in ('et1','et2'):
@@ -76,7 +77,8 @@ walls=[dict(w) for w in s['walls']]
 for w in walls:
     if w['id']=='w6': w['x1']=-BUMP
     if w['id']=='n2': w['y1']=5.067
-    if w['id']=='n1': w['thick']=round(5*0.0254,3)   # window glass 5 in thick, outside the room line
+    if w['id']=='n1': w['thick']=round(5*0.0254,3)
+    if w['id']=='g3': w['thick']=round(5*0.0254,3)   # user 10:17: glass between the big boardroom and the open plan is 5 in thick, on the open plan side   # window glass 5 in thick, outside the room line
 walls.append(dict(id='n2b',name='External windows, big boardroom',type='window',x1=-BUMP,y1=0,x2=-BUMP,y2=5.067,thick=round(5*0.0254,3)))   # glass pane 5 in thick
 walls.append(dict(id='w6b',name='Step wall, boardroom to eating area',type='wall',x1=-BUMP,y1=5.067,x2=0,y2=5.067))
 s['walls']=walls
